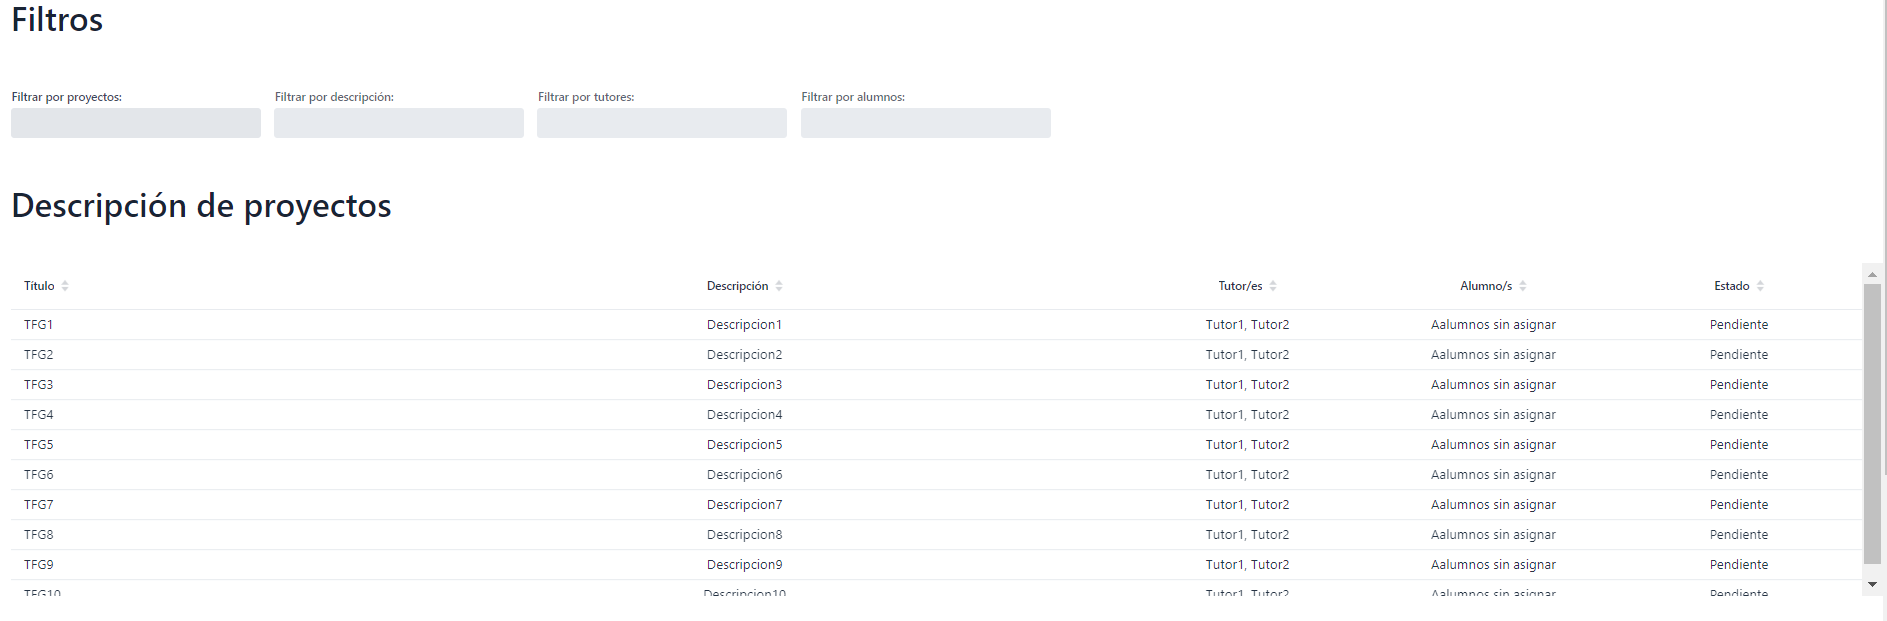
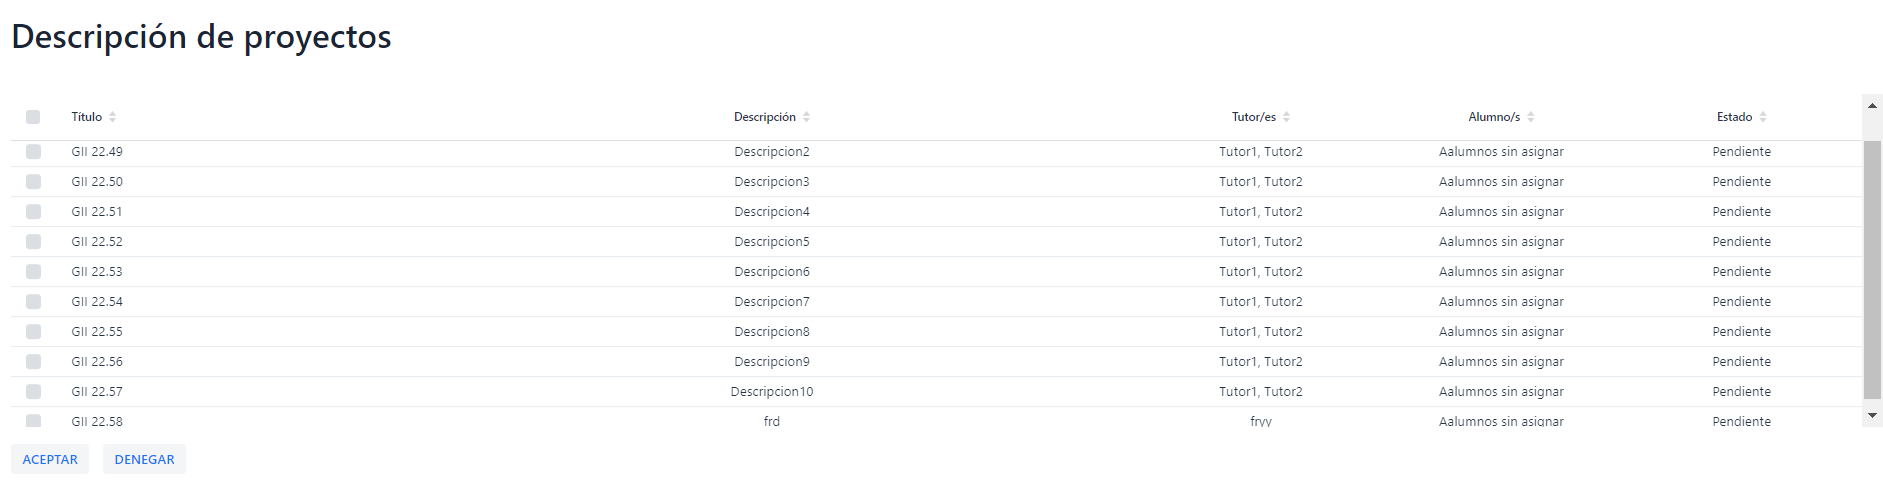
Documentar Manual de Usuario
#66

diff --git a/Documentacion/LaTeX/tex/E_Manual_usuario.tex b/Documentacion/LaTeX/tex/E_Manual_usuario.tex
@@ -53,7 +53,10 @@ A esta nueva pantalla solo podrán acceder los usuarios de \emph{Moodle} que sea
 En este nuevo menú se le pedirá al tutor que introduzca los parámetros necesarios para crear un nuevo TFG:
 
 \begin{itemize}
-	\item Titulo.
+	\item Titulo, por defecto se indicará :
+	\begin{itemize}
+		\item \emph{GII YY.XX} siendo YY el curso en el que se esta proponiendo el TFG, es decir el curso al que pertenece el día de subida del TFG, y siendo YY el número correspondiente al siguiente TFG, se tomará el número del último TFG de la base de datos y se le sumará uno.
+	\end{itemize}
 	\item Descripción.
 	\item Tutor1, por defecto se indica el nombre del tutor que se ha \emph{loggeado}.
 	\item Tutor2.
@@ -67,6 +70,11 @@ También se añadirá una nueva columna que indica si el TFG ha sido aceptado o 
 
 \imagenflotante{subirTFG}{Pantalla para indicar la información del TFG}{0.9}
 
+Los parámetros \emph{Título, descripción, tutor1, alumno1} son obligatorios, si intentamos agregar un TFG sin indicar alguno de estos datos se le avisará al usuario. Ver imagen \ref{fig:obligatorio}.
+
+\imagenflotante{obligatorio}{Aviso sobre los parámetros obligatorios.}{0.9}
+
+
 \subsection{Aceptación TFG}
 
 A esta nueva pantalla solo podrán acceder los usuarios de \emph{Moodle} que sean administradores, es decir se pedirá al usuario que se identifique con su \emph{email y contraseña}. Si no tienen los permisos necesarios se les negará el acceso.
@@ -75,23 +83,22 @@ Aquí aparecerán una tabla con la lista de TFGs con estado \emph{Pendiente}, en
 
 \imagenflotante{tablaPendientes}{Tabla con los TFGs con estado Pendiente}{0.9}
 
-En la parte inferior aparecerán una serie de componentes de \emph{Vaadin} para actualizar el estado del TFG que se desee.
+Esta tabla contiene unos \emph{Checkboxes} para seleccionar los TFGs que queramos modificar.
 
+El funcionamiento es el siguiente:
 \begin{itemize}
-	\item \emph{ComboBox} con los títulos del los \emph{TFGs} de la tabla superior para indicar uno. Ver imagen \ref{fig:titulosTFG}
-	\item \emph{ComboBox} con las opciones de \emph{Estado} del TFG. Ver imagen \ref{fig:estadosTFG}
-	\item Botón para confirmar la modificación del TFG.
+	\item Seleccionar los TFGs que queramos en la propia tabla.
+	\item Una vez los tengamos, pulsaremos en el botón \emph{Aceptar} o \emph{Denegar} según el estado que queramos indicar.
+	\item Confirmar esta operación. 
+	\begin{itemize}
+		\item \emph{Pop-up} con la opción de aceptar TFGs. Si pulsamos en \emph{No}} se cancelará la operación y se cerrará la pestaña, si pulsamos en \emph{Sí} se realizará el cambio de estado. Ver imagen\ref{fig:aceptarTFG}.
+		\item \emph{Pop-up} con la opción de denegar TFGs. Ver imagen\ref{fig:denegarTFG}.
+	\end{itemize}
+	\item Si se ha aceptado el TFG el nuevo estado será \emph{" "}, si se ha denegado se indica como \emph{denegado}.
 \end{itemize}
 
-\imagenflotante{titulosTFG}{Desplegable con los títulos de los TFGs}{0.9}
-
-\imagenflotante{estadosTFG}{Desplegable con los estados del TFG}{0.9}
-
-El \emph{ComboBox} con los estados y el botón para confirmar la modificación no están activados desde el principio, como se puede ver en la figura \ref{fig:desactivados}.
-
-\imagenflotante{desactivados}{Componentes desactivados}{0.9}
-
-Estos componentes se activarán a medida que seleccionemos los datos, es decir, una vez se indique el título se activará la opción de indicar el estado al que se quiere cambiar y una vez indiquemos el estado se activará el botón de actualizar la base de datos.
+\imagenflotante{aceptarTFG}{Pop-up con la opción de aceptar TFG}{0.9}
+\imagenflotante{denegarTFG}{Pop-up con la opción de denegar TFG}{0.9}
 
 
 
